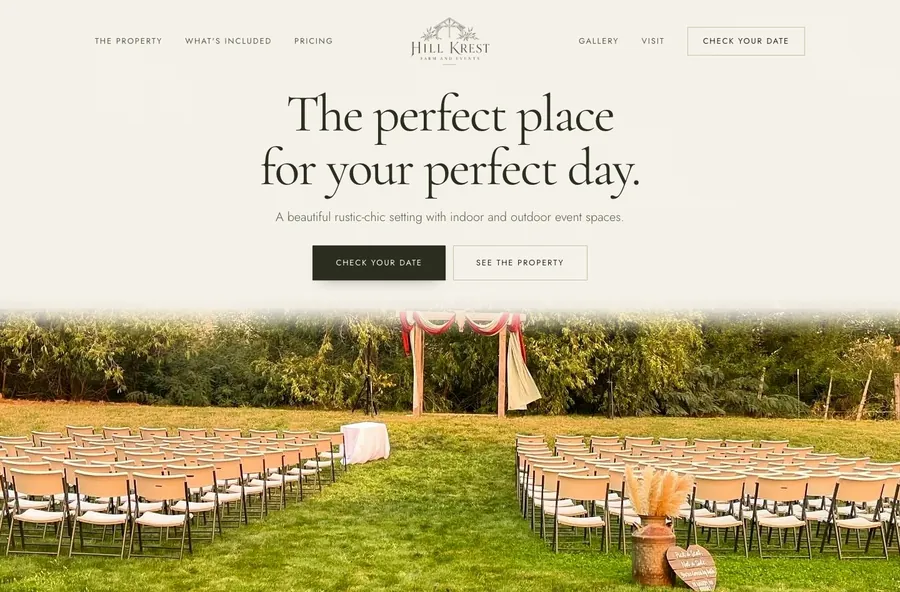
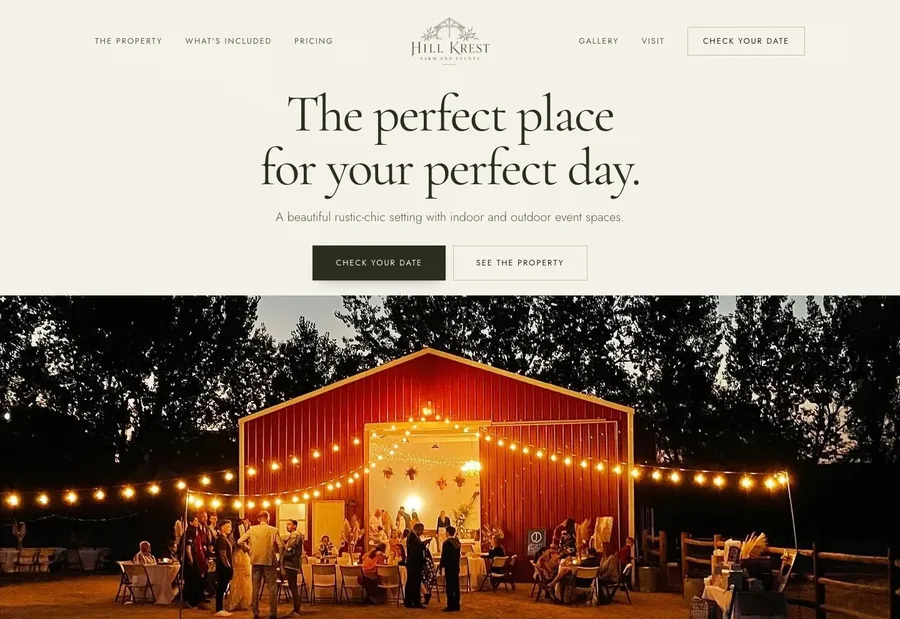
Heirloom: dusk barn hero, real package pricing and inclusions from the client

diff --git a/v1-heirloom/index.html b/v1-heirloom/index.html
@@ -118,14 +118,16 @@ tailwind.config = {
   /* The photograph gets its own band at the foot of the hero, with real ivory above it.
      Stretched across the whole hero it renders about 0.67x the viewport width tall, which is
      taller than the screen, so the venue can never clear the text. A band fixes that. */
-  .hero-photo{ position:relative; height:clamp(320px, 33vw, 480px); }
+  .hero-photo{ position:relative; height:clamp(320px, 36vw, 520px); }
   /* <picture> is inline by default, so the image has no box to fill without this */
   .hero-photo picture{ display:block; width:100%; height:100%; }
   .hero-photo img{
     display:block; width:100%; height:100%;
-    object-fit:cover; object-position:50% 100%;
+    object-fit:cover; object-position:50% 72%;
   }
-  .hero-photo::after{
+  /* The dusk photo has a dark sky along its top edge, so an ivory fade would only muddy it.
+     The band starts on a clean edge instead. */
+  .hero-photo::after{ display:none;
     content:''; position:absolute; inset:0 0 auto 0; height:14%;
     background:linear-gradient(to bottom,
       #F6F2EA 0%, rgba(246,242,234,.94) 30%, rgba(246,242,234,.66) 55%,
@@ -231,13 +233,13 @@ tailwind.config = {
   <div class="hero-photo rise">
     <picture>
       <source media="(max-width:640px)"
-              srcset="../images/hero-ceremony-mobile-640.webp 640w, ../images/hero-ceremony-mobile.webp 980w"
-              sizes="100vw">
-      <img src="../images/hero-ceremony-1000.webp"
-           srcset="../images/hero-ceremony-700.webp 700w, ../images/hero-ceremony-1000.webp 1000w, ../images/hero-ceremony.webp 1440w"
+              srcset="../images/hero-dusk-700.webp 700w, ../images/hero-dusk-1000.webp 1000w, ../images/hero-dusk.webp 1440w"
+              sizes="160vw">
+      <img src="../images/hero-dusk-1000.webp"
+           srcset="../images/hero-dusk-700.webp 700w, ../images/hero-dusk-1000.webp 1000w, ../images/hero-dusk.webp 1440w"
            sizes="100vw"
-           alt="The ceremony lawn set for a wedding, a draped timber arbor with chairs in two blocks either side of a grass aisle"
-           width="1440" height="572" fetchpriority="high">
+           alt="The red barn at dusk with its doors open and string lights running out across the yard, guests at tables in front"
+           width="1440" height="810" fetchpriority="high">
     </picture>
   </div>
 </section>
@@ -343,7 +345,11 @@ tailwind.config = {
         <dl class="grid sm:grid-cols-2 gap-x-10">
           <div class="py-5 border-t border-line">
             <dt class="h-md">Tables and chairs</dt>
-            <dd class="text-ink-mid mt-2"><span class="tbd">Count and type</span>. Round tables, banquet tables and white folding chairs are on site.</dd>
+            <dd class="text-ink-mid mt-2">Seating for up to 150 guests, with white tablecloths.</dd>
+          </div>
+          <div class="py-5 border-t border-line">
+            <dt class="h-md">Two arbors</dt>
+            <dd class="text-ink-mid mt-2">Both are yours to dress for the ceremony.</dd>
           </div>
           <div class="py-5 border-t border-line">
             <dt class="h-md">Frame tents</dt>
@@ -351,23 +357,31 @@ tailwind.config = {
           </div>
           <div class="py-5 border-t border-line">
             <dt class="h-md">Heat and lighting</dt>
-            <dd class="text-ink-mid mt-2">Patio heaters, string lights through the barn and across the yard, and power at <span class="tbd">locations</span>.</dd>
+            <dd class="text-ink-mid mt-2">Four outdoor patio heaters, plus string lights through the barn and across the yard.</dd>
           </div>
           <div class="py-5 border-t border-line">
+            <dt class="h-md">The bridal suite</dt>
+            <dd class="text-ink-mid mt-2">A spacious room of your own with a kitchenette, its own bathroom, a table to spread out on, and the basic hair and toiletry things people always forget.</dd>
+          </div>
+          <div class="py-5 border-t border-line">
+            <dt class="h-md">The groom's trailer</dt>
+            <dd class="text-ink-mid mt-2">A separate place for the groom and his party to get ready.</dd>
+          </div>
+          <div class="py-5 border-t border-line">
+            <dt class="h-md">Select decorations</dt>
+            <dd class="text-ink-mid mt-2">A selection of the farm's own decor is yours to use.</dd>
+          </div>
+          <div class="py-5 border-t border-line">
+            <dt class="h-md">Your own vendors</dt>
+            <dd class="text-ink-mid mt-2">No vendor restrictions. Bring any caterer, florist, DJ or photographer you like.</dd>
+          </div>
+          <div class="py-5 border-t border-line sm:border-b border-b">
             <dt class="h-md">Parking</dt>
             <dd class="text-ink-mid mt-2">Gravel lot on site for <span class="tbd">vehicle count</span> vehicles.</dd>
           </div>
-          <div class="py-5 border-t border-line">
+          <div class="py-5 border-t border-line sm:border-b border-b">
             <dt class="h-md">Restrooms</dt>
             <dd class="text-ink-mid mt-2"><span class="tbd">Permanent or portable, and how many</span>.</dd>
-          </div>
-          <div class="py-5 border-t border-line">
-            <dt class="h-md">The bridal room</dt>
-            <dd class="text-ink-mid mt-2">A large room of your own with a kitchenette, its own bathroom, a table to spread out on, and the basic hair and toiletry things people always forget.</dd>
-          </div>
-          <div class="py-5 border-t border-line sm:border-b-0 border-b">
-            <dt class="h-md">Catering</dt>
-            <dd class="text-ink-mid mt-2"><span class="tbd">Any caterer, preferred list, or in-house</span>. Prep area: <span class="tbd">what is available</span>.</dd>
           </div>
         </dl>
       </div>
@@ -388,27 +402,27 @@ tailwind.config = {
 
     <div class="grid sm:grid-cols-2 lg:grid-cols-4 gap-px bg-line mt-[var(--s-5)] rise border border-line">
       <div class="bg-surface p-8">
-        <p class="display text-[2.75rem] leading-none">$<span class="tbd">0,000</span></p>
-        <p class="text-ink-mid mt-4">Full weekend wedding, <span class="tbd">days and hours</span>.</p>
+        <p class="display text-[2.75rem] leading-none">$3,200</p>
+        <p class="text-ink-mid mt-4">The wedding package, with everything listed above.</p>
       </div>
       <div class="bg-surface p-8">
-        <p class="display text-[2.75rem] leading-none">$<span class="tbd">0,000</span></p>
-        <p class="text-ink-mid mt-4">Single Saturday, <span class="tbd">hours</span>.</p>
+        <p class="display text-[2.75rem] leading-none">$500</p>
+        <p class="text-ink-mid mt-4">Deposit to reserve your date.</p>
       </div>
       <div class="bg-surface p-8">
-        <p class="display text-[2.75rem] leading-none">$<span class="tbd">000</span></p>
-        <p class="text-ink-mid mt-4">Weekday and off-season events.</p>
-      </div>
-      <div class="bg-surface p-8">
-        <p class="display text-[2.75rem] leading-none">100 to 150</p>
+        <p class="display text-[2.75rem] leading-none">Up to 150</p>
         <p class="text-ink-mid mt-4">Guests, across the whole venue.</p>
+      </div>
+      <div class="bg-surface p-8">
+        <p class="display text-[2.75rem] leading-none">10:30 PM</p>
+        <p class="text-ink-mid mt-4">When loud music ends.</p>
       </div>
     </div>
 
     <div class="grid md:grid-cols-3 gap-8 lg:gap-12 mt-[var(--s-5)] rise">
       <div>
         <h3 class="h-md">Holding a date</h3>
-        <p class="text-ink-mid mt-3"><span class="tbd-block">Deposit amount, whether it is refundable, and what the balance schedule looks like.</span></p>
+        <p class="text-ink-mid mt-3">A $500 deposit reserves your date. <span class="tbd">Whether it is refundable, and when the balance is due</span>.</p>
       </div>
       <div>
         <h3 class="h-md">If it rains</h3>
@@ -416,7 +430,7 @@ tailwind.config = {
       </div>
       <div>
         <h3 class="h-md">House rules</h3>
-        <p class="text-ink-mid mt-3"><span class="tbd-block">Music curfew, open flame, sparklers, decor limits, clean-up and insurance.</span></p>
+        <p class="text-ink-mid mt-3">Start decorating at 4 PM the day before, and come back the day after to clean up if you need to. Loud music ends at 10:30 PM. <span class="tbd">Open flame, sparklers and insurance</span>.</p>
       </div>
     </div>
   </div>

diff --git a/index.html b/index.html
@@ -66,7 +66,7 @@
 
   <article class="card">
     <a href="v1-heirloom/index.html" class="shot" aria-label="Open the Heirloom direction">
-      <img src="images/previews/thumb-heirloom.webp" alt="Heirloom: ivory page, serif headline, the ceremony lawn beneath it" width="900" height="592">
+      <img src="images/previews/thumb-heirloom.webp" alt="Heirloom: ivory page, serif headline, the red barn at dusk with string lights beneath it" width="900" height="619">
     </a>
     <div class="flex flex-wrap items-end justify-between gap-5 mt-6">
       <div>
